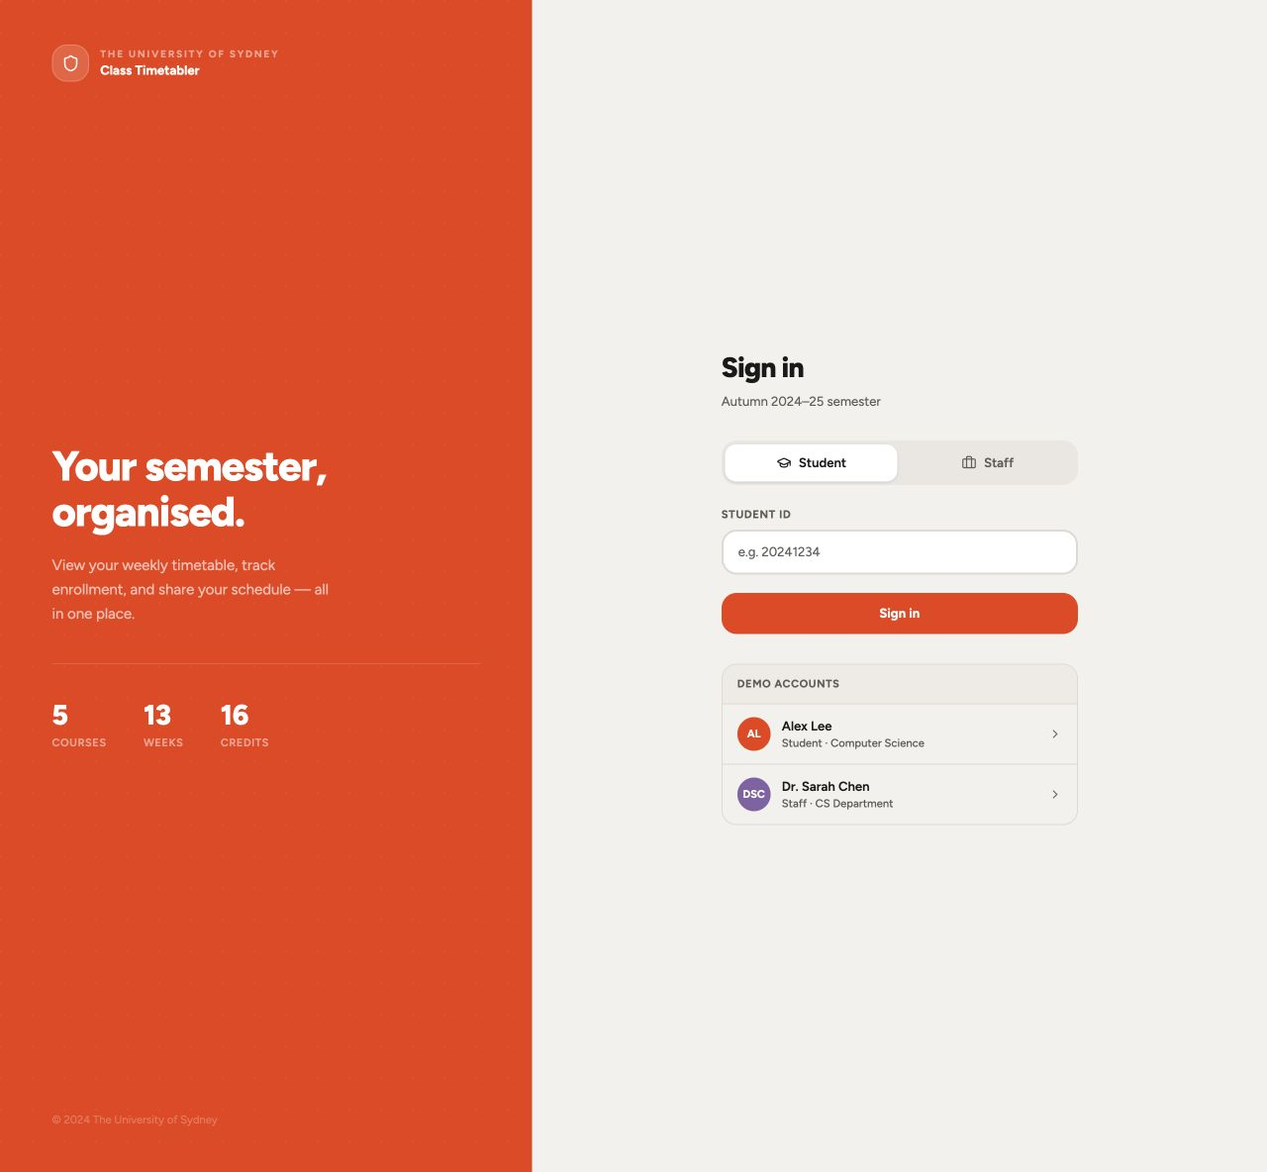
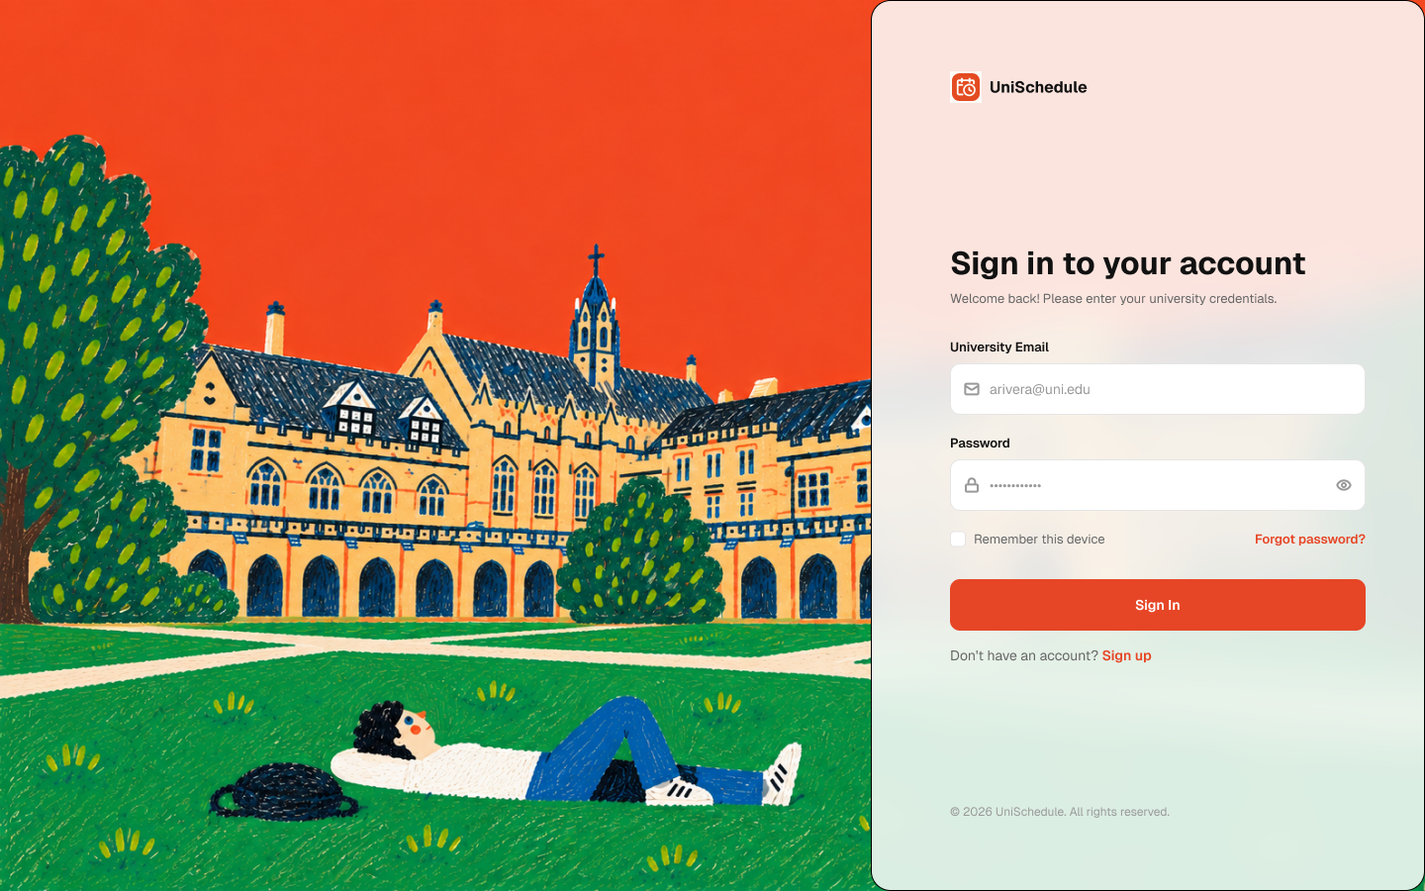
docs: refresh UI prototype from redesigned Figma screens

diff --git a/02_软件设计与架构/05_界面原型.md b/02_软件设计与架构/05_界面原型.md
@@ -1,71 +1,166 @@
 # 界面原型
 
-根据 `Mobile University Timetable App.zip` 整理，按“登录 → 学生端 → 教职员工端”的使用顺序展示。截图保留原型的英文界面，使用示例账户和课程数据。
+本版以 [UniSchedule 新版 Figma 设计](https://www.figma.com/design/F9PdvZ2BAiF2pOJ6lmr6uY/Untitled) 为界面来源，更新日期为 **2026-09-19**。已导出 Page 1 中全部 **21 张顶层界面与状态图**，均为 **1440 × 900** 桌面画板；按登录、学生端、教职员工端整理。每张图片附有对应 Figma 节点链接，便于继续编辑与核对。
 
-本原型用于确认页面布局与交互流程，不代表对应需求已经实现或通过验收。需求编号对应[用户故事与验收标准](../01_需求工程/02_用户故事、验收标准与可追溯性.md)，关联见[可追溯列表](../01_需求工程/03_可追溯列表.md)。
+本版替代此前从 `Mobile University Timetable App.zip` 整理的 8 张截图；旧版可在 Git 历史中查看。截图保留英文界面及示例内容，表示视觉与交互设计，不代表业务已实现或通过验收。
+
+需求编号对应[用户故事与验收标准](../01_需求工程/02_用户故事、验收标准与可追溯性.md)，关联见[可追溯列表](../01_需求工程/03_可追溯列表.md)。本次更新保留新 UI 原貌，与现有规则和接口的差异列在第 4 节，不据此自动变更业务权限或项目范围。
 
 ## 1. 登录
 
-**对应需求：US-01。** 选择学生或教职员工身份，进入各自的界面；演示账户用于快速体验。
+**对应需求：US-01。** 左侧校园插画，右侧大学邮箱及密码表单，包含记住设备、忘记密码和注册入口。本次文件未包含注册、密码重置、登录失败及会话失效的独立画板。
 
-![登录](images/原型/01_登录.png)
+**登录** · [Figma 原图](https://www.figma.com/design/F9PdvZ2BAiF2pOJ6lmr6uY/Untitled?node-id=26-4)
+
+![login-page](images/原型/01_登录.png)
 
 ## 2. 学生端
 
 ### 2.1 个人课程表
 
-**对应需求：US-02。** 按周展示课程安排，通过颜色区分科目，点击课程查看详情。
+**对应需求：US-02。** 左侧导航包含 Timetable、Announcements、Shared Timetables、Compare Timetables 和 Settings。主区域按周展示工作日课程、时间及地点，颜色区分科目；默认状态关闭详情抽屉。
 
-![个人课程表](images/原型/02_个人课程表.png)
+**个人课程表** · [Figma 原图](https://www.figma.com/design/F9PdvZ2BAiF2pOJ6lmr6uY/Untitled?node-id=2-4)
+
+![Timetable — Default (Closed)](images/原型/02_个人课程表.png)
 
 ### 2.2 课程详情与容量
 
-**对应需求：US-02、US-03。** 展示课程类型、教师、时间、地点、教学周及已报名人数与容量。
+**对应需求：US-02、US-03。** 选择课程后打开右侧详情抽屉，展示类型、教师、时间、地点、在线链接、报名人数、容量、剩余名额、候补人数、来源、验证状态及更新时间。底部保留 Course Notes、Edit Class 和 Remove 设计，具体权限与数据归属见第 4 节。
 
-![课程详情与容量](images/原型/03_课程详情.png)
+**课程详情与容量** · [Figma 原图](https://www.figma.com/design/F9PdvZ2BAiF2pOJ6lmr6uY/Untitled?node-id=6-2)
+
+![Timetable - Drawer Open](images/原型/03_课程详情与容量.png)
 
 ### 2.3 查看公告
 
-**对应需求：US-06。** 按课程展示公告，显示发布者、时间和未读提示；点击展开正文。
+**对应需求：US-06。** 列表展示课程、消息、发送者和日期，提供 All / Unread 筛选及新消息数量；详情状态在右侧展开公告正文和背景信息，并包含 Reply / Archive 入口。两个画板使用不同示例公告，不代表同一条数据的前后状态。
 
-![查看公告](images/原型/04_查看公告.png)
+**公告列表** · [Figma 原图](https://www.figma.com/design/F9PdvZ2BAiF2pOJ6lmr6uY/Untitled?node-id=38-8)
+
+![announcements-default](images/原型/04_公告列表.png)
+
+**公告详情** · [Figma 原图](https://www.figma.com/design/F9PdvZ2BAiF2pOJ6lmr6uY/Untitled?node-id=38-128)
+
+![announcements-drawer-open](images/原型/05_公告详情.png)
 
 ### 2.4 分享课程表
 
-**对应需求：US-04。** 展示分享链接、二维码和课程清单，表达只读分享的交互方向。
+**对应需求：US-04；Calendar Feed 涉及 EXT-01。** 六张画板覆盖分享列表、创建表单、分享范围选择、创建成功及复制链接、撤销确认、撤销后状态。可选择 Full Timetable / Availability Only、Person / Calendar Feed，以及 None / 7d / 30d / Custom 有效期。列表区分 Active、Expired、Revoked，已撤销项显示 Delete 入口。
 
-![分享课程表](images/原型/05_分享课程表.png)
+**分享列表** · [Figma 原图](https://www.figma.com/design/F9PdvZ2BAiF2pOJ6lmr6uY/Untitled?node-id=43-823)
+
+![Shared Timetables - List](images/原型/06_分享列表.png)
+
+**创建分享** · [Figma 原图](https://www.figma.com/design/F9PdvZ2BAiF2pOJ6lmr6uY/Untitled?node-id=43-887)
+
+![Shared Timetables — Create Share](images/原型/07_创建分享.png)
+
+**分享范围** · [Figma 原图](https://www.figma.com/design/F9PdvZ2BAiF2pOJ6lmr6uY/Untitled?node-id=43-1123)
+
+![create-share-scope](images/原型/08_分享范围.png)
+
+**分享创建成功** · [Figma 原图](https://www.figma.com/design/F9PdvZ2BAiF2pOJ6lmr6uY/Untitled?node-id=43-1239)
+
+![share-created-copy](images/原型/09_分享创建成功.png)
+
+**撤销分享确认** · [Figma 原图](https://www.figma.com/design/F9PdvZ2BAiF2pOJ6lmr6uY/Untitled?node-id=43-1336)
+
+![revoke-share-confirm](images/原型/10_撤销分享确认.png)
+
+**分享已撤销** · [Figma 原图](https://www.figma.com/design/F9PdvZ2BAiF2pOJ6lmr6uY/Untitled?node-id=43-1435)
+
+![share-revoked-state](images/原型/11_分享已撤销.png)
+
+### 2.5 比较课程表
+
+**对应需求：US-04。** 粘贴分享链接后比较本人和对方的安排。三张画板分别表示未输入时的空状态、有效分享的比较视图、链接无效或不再可用的错误状态。Availability only 示例用 Busy 隐去对方课程详情；画面呈现并排比较，不作为已实现冲突检测的证据。
+
+**比较空状态** · [Figma 原图](https://www.figma.com/design/F9PdvZ2BAiF2pOJ6lmr6uY/Untitled?node-id=53-6)
+
+![compare-empty-state](images/原型/12_比较空状态.png)
+
+**比较课程表** · [Figma 原图](https://www.figma.com/design/F9PdvZ2BAiF2pOJ6lmr6uY/Untitled?node-id=53-50)
+
+![compare-active](images/原型/13_比较课程表.png)
+
+**比较链接失效** · [Figma 原图](https://www.figma.com/design/F9PdvZ2BAiF2pOJ6lmr6uY/Untitled?node-id=53-278)
+
+![compare-invalid-link](images/原型/14_比较链接失效.png)
 
 ## 3. 教职员工端
 
 ### 3.1 课程概览
 
-**对应需求：US-05、US-03。** 按星期查看课程记录及容量，并展示汇总信息和同步入口。
+**对应需求：US-05、US-03。** Staff Workspace 按学期、科目和班级组织课程，展示 Coordinator / Teaching Staff 身份及班级容量、剩余名额、Limited / Full 状态。导航包含 Workspace、Management 和 Audit Log。
 
-![教职员工课程概览](images/原型/06_教职员工课程.png)
+**教职员工工作台** · [Figma 原图](https://www.figma.com/design/F9PdvZ2BAiF2pOJ6lmr6uY/Untitled?node-id=76-550)
+
+![staff-workspace](images/原型/15_教职员工工作台.png)
 
 ### 3.2 公告管理
 
-**对应需求：US-06。** 查看公告列表，区分本人发布的公告，并提供新建入口。
+**对应需求：US-06。** 列表提供 All / Draft / Published 筛选，展示标题、范围、状态、日期及编辑、发布、撤回入口，并提供 Create Announcement 按钮。编辑抽屉包含标题、锁定的 CLASS 范围、正文、草稿状态和 Save Draft / Publish 按钮。本次没有独立的新建公告或撤回确认画板。
 
-![公告管理](images/原型/07_公告管理.png)
+**公告管理** · [Figma 原图](https://www.figma.com/design/F9PdvZ2BAiF2pOJ6lmr6uY/Untitled?node-id=90-5)
 
-### 3.3 新建公告
+![announcements-management](images/原型/20_公告管理.png)
 
-**对应需求：US-06。** 选择课程，填写标题和正文，可设置优先标记。图中内容为演示填写。
+**编辑公告** · [Figma 原图](https://www.figma.com/design/F9PdvZ2BAiF2pOJ6lmr6uY/Untitled?node-id=90-148)
 
-![新建公告](images/原型/08_新建公告.png)
+![announcements-edit-drawer](images/原型/21_编辑公告.png)
+
+### 3.3 班级管理与课程安排编辑
+
+**对应需求：US-05、US-03；可写字段待与现有规则对齐。** 班级页面展示时间、地点、授课方式、验证状态、有效容量、剩余名额、容量覆盖以及额外课程安排。容量覆盖示例包含超出教室座位数的警告。编辑抽屉展示星期、起止时间、地点、授课方式、在线地址、安排状态与验证状态，以及取消和保存操作。
+
+**班级管理** · [Figma 原图](https://www.figma.com/design/F9PdvZ2BAiF2pOJ6lmr6uY/Untitled?node-id=76-671)
+
+![class-management](images/原型/16_班级管理.png)
+
+**编辑课程安排** · [Figma 原图](https://www.figma.com/design/F9PdvZ2BAiF2pOJ6lmr6uY/Untitled?node-id=76-781)
+
+![class-management-drawer](images/原型/17_编辑课程安排.png)
+
+### 3.4 审计日志
+
+**对应需求：US-05、US-06；审计查询权限待确认。** 列表支持操作者、操作、资源及日期范围筛选，展示时间、操作者、角色、操作、资源和摘要。右侧抽屉展示单条记录的操作详情、变更摘要、审计 ID 与实体 ID。列表中的授权变更及系统同步记录属于示例内容，不表示新增角色管理功能已经获批。
+
+**审计日志列表** · [Figma 原图](https://www.figma.com/design/F9PdvZ2BAiF2pOJ6lmr6uY/Untitled?node-id=84-5)
+
+![audit-logs-list](images/原型/18_审计日志列表.png)
+
+**审计日志详情** · [Figma 原图](https://www.figma.com/design/F9PdvZ2BAiF2pOJ6lmr6uY/Untitled?node-id=84-191)
+
+![audit-logs-drawer](images/原型/19_审计日志详情.png)
 
 ## 4. 原型边界与待补充内容
 
-| 需求 | 当前原型与后续工作 |
-| --- | --- |
-| US-01 登录与权限 | 当前使用演示账户；正式身份认证及服务端权限校验待实现。 |
-| US-02 课程表 | 已展示桌面流程；移动端布局、加载失败和无课程状态需补充确认。 |
-| US-03 容量与数据可信度 | 已展示示例容量；数据来源、验证状态及无容量数据提示待补充。 |
-| US-04 分享与比较 | 链接、二维码及按钮为演示；用户同意、分享范围、访问控制和比较视图待补充。 |
-| US-05 信息维护 | 已展示课程概览；批准字段编辑、保存反馈及审计界面待补充。 |
-| US-06 公告 | 新建公告仅更新本地状态；编辑、撤回、按用户群体定向及正式发布待补充。优先标记不用于紧急事件通信。 |
-| US-07 更新同步 | `Live sync` 和容量变化为本地模拟，尚未验证学生端与教职员工端的真实同步。 |
+### 4.1 与当前业务规则和接口的差异
 
-原型使用 Vite + React。正式系统仍以[技术栈与技术选型结论](02_技术栈与技术选型结论.md)中的 Next.js 等选型为准；交互权限以[业务规则与权限矩阵](04_业务规则与权限矩阵.md)为依据。
+以下按新版 UI 实际内容记录，供后续需求评审与实现对齐；现有[业务规则与权限矩阵](04_业务规则与权限矩阵.md)及[接口契约](06_接口契约.md)仍保留其草案状态。
+
+| 设计内容 | 当前契约 / 范围 | 后续需明确 |
+| --- | --- | --- |
+| 学生详情的 Edit Class、Remove、Course Notes | 当前学生无修改官方安排、选课或分班的权限，也无个人笔记接口 | 明确是否仅操作个人显示或笔记，不能解释为修改正式记录 |
+| 教师编辑时间、地点、授课方式、验证状态、容量覆盖及新增安排 | 当前仅允许维护补充 content，未提供上述写入接口 | 确认官方与补充数据边界、字段白名单、验证权限、容量规则，再更新模型与契约 |
+| Person / Calendar Feed 分享、复制链接、无限期分享、按姓名或邮箱搜索 | 当前暂按指定接收人登录访问，要求 expiresAt；不开放任意用户搜索；日历订阅属于 EXT-01 | 明确接收人选择、链接与认证关系、期限、同意记录及订阅撤销规则；UI 链接不代表公开访问已获批准 |
+| Full Timetable / Availability Only 与分享删除 | 当前使用 allowedFields，已有撤销但没有删除接口 | 定义两种分享选项到字段白名单的映射，以及删除与撤销、审计保留的区别 |
+| 公告 CLASS 级范围及已发布公告的 Edit 按钮 | 当前 targets 仅 course / group，且只允许编辑 draft | 确认班级是否新增目标类型，以及已发布公告的编辑规则，避免向整门科目误发班级公告 |
+| 公告未读、回复及归档 | 当前仅规定可见公告查询，无已读、回复或归档接口 | 明确属于当前版本还是后续扩展，并补充相应数据与权限设计 |
+| Audit Log 导航与查询筛选 | 当前有审计写入模型，但没有列表/详情接口，教职员工不默认拥有查看权 | 定义可查询角色、记录范围及敏感字段，不因界面存在而自动授予权限 |
+
+### 4.2 设计覆盖与实现状态
+
+| 需求 | 本次设计覆盖 | 仍需落实 |
+| --- | --- | --- |
+| US-01 | 登录表单 | 认证、角色分流、越权及会话异常处理 |
+| US-02 | 周课表和详情抽屉 | 移动布局、加载、空课表和查询失败状态 |
+| US-03 | 容量、剩余名额、候补、来源及验证时间 | 未知容量、过期/失败、测试来源提示以及各数值的业务定义 |
+| US-04 | 创建、范围、成功、撤销、失效及比较状态 | 明确同意提示、接收人授权、分享字段校验及失效后的客户端清理 |
+| US-05 | 工作台、班级编辑、容量警告及审计列表/详情 | 可写字段确认、保存失败、并发冲突、权限拒绝及实际审计 |
+| US-06 | 学生列表/详情、教师管理/编辑、发布/撤回入口 | 新建、撤回后状态、目标权限及发布/撤回结果反馈 |
+| US-07 | 多角色页面及数据状态展示 | 真实同步、断线恢复和同步失败提示，本次静态截图不验证同步能力 |
+| NFR-02 | 21 张 1440 × 900 桌面画板 | 本次无独立移动端画板；Settings 只有导航入口 |
+
+正式应用技术选型仍以[技术栈与技术选型结论](02_技术栈与技术选型结论.md)为准。本次交付是 Figma 原图导出与文档同步，不包含应用实现。

diff --git a/01_需求工程/03_可追溯列表.md b/01_需求工程/03_可追溯列表.md
@@ -13,13 +13,13 @@
 
 | ID | 客户需求 | 来源 | Figma / 设计 | Issue | 代码 | PR / Commit | 测试 |
 | --- | --- | --- | --- | --- | --- | --- | --- |
-| US-01 | 身份认证、角色及读写权限 | S1 §4.1–4.2 | [界面原型](../02_软件设计与架构/05_界面原型.md#1-登录)（部分覆盖）；[接口契约](../02_软件设计与架构/06_接口契约.md)（草案） | 待补充 | 待补充 | 待补充 | 待补充 |
-| US-02 | 个人课程表及时间、地点、类型、科目 | S1 §4.1 | [界面原型](../02_软件设计与架构/05_界面原型.md#21-个人课程表)（部分覆盖）；[接口契约](../02_软件设计与架构/06_接口契约.md)（草案） | 待补充 | 待补充 | 待补充 | 待补充 |
-| US-03 | 有合适数据时显示容量或名额；区分已验证数据与补充信息 | S1 §2、§4.1；S4 §10 | [界面原型](../02_软件设计与架构/05_界面原型.md#22-课程详情与容量)（部分覆盖）；[接口契约](../02_软件设计与架构/06_接口契约.md)（草案） | 待补充 | 待补充 | 待补充 | 待补充 |
-| US-04 | 经学生同意的受控分享与课程表比较 | S1 §4.1；S2 §7.1 | [界面原型](../02_软件设计与架构/05_界面原型.md#24-分享课程表)（部分覆盖）；[接口契约](../02_软件设计与架构/06_接口契约.md)（草案） | 待补充 | 待补充 | 待补充 | 待补充 |
-| US-05 | 教职员工 Dashboard、批准字段维护及基本修改审计 | S1 §2、§4.2 | [界面原型](../02_软件设计与架构/05_界面原型.md#31-课程概览)（部分覆盖）；[接口契约](../02_软件设计与架构/06_接口契约.md)（草案） | 待补充 | 待补充 | 待补充 | 待补充 |
-| US-06 | 公告创建、编辑、发布、撤回及按课程或群体定向展示 | S1 §4.1–4.2 | [界面原型](../02_软件设计与架构/05_界面原型.md#32-公告管理)（部分覆盖）；[接口契约](../02_软件设计与架构/06_接口契约.md)（草案） | 待补充 | 待补充 | 待补充 | 待补充 |
-| US-07 | 学生端与教职员工端同步；在有明确价值时采用实时或近实时方式 | S1 §2、§4.3；S2 §7.1–7.2 | [界面原型](../02_软件设计与架构/05_界面原型.md#4-原型边界与待补充内容)（部分覆盖）；[接口契约](../02_软件设计与架构/06_接口契约.md)（草案） | 待补充 | 待补充 | 待补充 | 待补充 |
+| US-01 | 身份认证、角色及读写权限 | S1 §4.1–4.2 | [界面原型](../02_软件设计与架构/05_界面原型.md#1-登录)（新版 Figma，设计覆盖见原型说明）；[接口契约](../02_软件设计与架构/06_接口契约.md)（草案） | 待补充 | 待补充 | 待补充 | 待补充 |
+| US-02 | 个人课程表及时间、地点、类型、科目 | S1 §4.1 | [界面原型](../02_软件设计与架构/05_界面原型.md#21-个人课程表)（新版 Figma，设计覆盖见原型说明）；[接口契约](../02_软件设计与架构/06_接口契约.md)（草案） | 待补充 | 待补充 | 待补充 | 待补充 |
+| US-03 | 有合适数据时显示容量或名额；区分已验证数据与补充信息 | S1 §2、§4.1；S4 §10 | [界面原型](../02_软件设计与架构/05_界面原型.md#22-课程详情与容量)（新版 Figma，设计覆盖见原型说明）；[接口契约](../02_软件设计与架构/06_接口契约.md)（草案） | 待补充 | 待补充 | 待补充 | 待补充 |
+| US-04 | 经学生同意的受控分享与课程表比较 | S1 §4.1；S2 §7.1 | [分享与撤销](../02_软件设计与架构/05_界面原型.md#24-分享课程表)、[课程表比较](../02_软件设计与架构/05_界面原型.md#25-比较课程表)（新版 Figma）；[接口契约](../02_软件设计与架构/06_接口契约.md)（草案） | 待补充 | 待补充 | 待补充 | 待补充 |
+| US-05 | 教职员工 Dashboard、批准字段维护及基本修改审计 | S1 §2、§4.2 | [课程概览](../02_软件设计与架构/05_界面原型.md#31-课程概览)、[班级管理](../02_软件设计与架构/05_界面原型.md#33-班级管理与课程安排编辑)、[审计日志](../02_软件设计与架构/05_界面原型.md#34-审计日志)（可写范围及审计权限待确认）；[接口契约](../02_软件设计与架构/06_接口契约.md)（草案） | 待补充 | 待补充 | 待补充 | 待补充 |
+| US-06 | 公告创建、编辑、发布、撤回及按课程或群体定向展示 | S1 §4.1–4.2 | [界面原型](../02_软件设计与架构/05_界面原型.md#32-公告管理)（新版 Figma，设计覆盖见原型说明）；[接口契约](../02_软件设计与架构/06_接口契约.md)（草案） | 待补充 | 待补充 | 待补充 | 待补充 |
+| US-07 | 学生端与教职员工端同步；在有明确价值时采用实时或近实时方式 | S1 §2、§4.3；S2 §7.1–7.2 | [原型边界](../02_软件设计与架构/05_界面原型.md#4-原型边界与待补充内容)（静态设计，不验证同步）；[接口契约](../02_软件设计与架构/06_接口契约.md)（草案） | 待补充 | 待补充 | 待补充 | 待补充 |
 | FR-01 | 接入至少一种批准的数据源，可使用数据集、Mock API 或测试数据 | S1 §4.3；S4 §10 | [接口契约](../02_软件设计与架构/06_接口契约.md)（草案） | 待补充 | 待补充 | 待补充 | 待补充 |
 
 ## 质量、技术与交付
@@ -38,7 +38,7 @@
 | NFR-08 | 可维护架构；用户、课程、课程表、容量、公告和权限数据模型 | S1 §4.3；S2 §7.2–7.3 | 待补充 | 待补充 | 待补充 | 待补充 |
 | NFR-09 | 记录配置、密钥管理、监控、恢复、维护及回滚要求 | S2 §7.3；S4 §10 | 待补充 | 待补充 | 待补充 | 待补充 |
 | NFR-10 | 关键流程自动化测试，以及功能、可用性、性能、无障碍和安全评估 | S1 §4.3；S2 §8 测试与评估 | 待补充 | 待补充 | 待补充 | 待补充 |
-| DEL-01 | 需求、流程、假设、约束及优先级范围；学生与教职员工原型 | S2 §8 需求与项目范围、用户体验设计 | 待补充 | 待补充 | 待补充 | 待补充 |
+| DEL-01 | 需求、流程、假设、约束及优先级范围；学生与教职员工原型 | S2 §8 需求与项目范围、用户体验设计 | [新版界面原型：21 张画板](../02_软件设计与架构/05_界面原型.md)（部分交付） | 待补充 | 待补充 | 待补充 |
 | DEL-02 | 评估建议技术及替代方案，记录权衡、选择依据、被拒方案和备用方案 | S2 §5、§8 架构与技术评估 | 待补充 | 待补充 | 待补充 | 待补充 |
 | DEL-03 | 可部署试点、源码、开发者与用户文档、已知问题、后续 Backlog 和生产就绪差距 | S2 §7.3、§8；S4 §11 | 待补充 | 待补充 | 待补充 | 待补充 |
 | DEL-04 | 13周阶段计划：探索、设计、开发、同步部署、测试、最终 Demo 与移交 | S3 §9 | 待补充 | 待补充 | 待补充 | 待补充 |
@@ -50,7 +50,7 @@
 
 | ID | 客户内容 | 来源 | 处理方式 |
 | --- | --- | --- | --- |
-| EXT-01 | 日历导出或订阅 | S1 §4.4 | 扩展，未纳入核心承诺 |
+| EXT-01 | 日历导出或订阅 | S1 §4.4 | 新版[分享原型](../02_软件设计与架构/05_界面原型.md#24-分享课程表)出现 Calendar Feed；仍属扩展，未纳入核心承诺 |
 | EXT-02 | 时间冲突检测 | S1 §4.4 | 扩展，区别于核心课程表比较 |
 | EXT-03 | 通知偏好 | S1 §4.4 | 扩展，未纳入核心承诺 |
 | EXT-04 | 教职员工分析 | S1 §4.4 | 扩展，未纳入核心承诺 |

diff --git a/01_需求工程/04_需求变更记录.md b/01_需求工程/04_需求变更记录.md
@@ -6,5 +6,6 @@
 
 | 变更 ID | 日期 | 关联需求 ID | 变更前 → 变更后 | 变更原因 | 影响的设计 / 实现 / 测试 | 确认人 / 状态 |
 | --- | --- | --- | --- | --- | --- | --- |
+| CH-001 | 2026-09-19 | US-01～US-07、DEL-01、EXT-01 | 旧版 8 张截图 → 新版 Figma 的 21 张界面与状态图；新增比较、撤销、班级管理和审计展示 | 项目维护者重构全部 UI，要求同步仓库 | 更新[界面原型](../02_软件设计与架构/05_界面原型.md)、截图及[可追溯列表](03_可追溯列表.md)；可写字段、分享方式、公告范围等差异见原型第 4 节；不将设计视为已实现或已测试 | UI 同步已按项目维护者要求执行；涉及业务范围和权限的调整待客户确认 |
 
 每次需求变更新增一行，变更 ID 从 CH-001 顺序编号。根据 [可追溯列表](03_可追溯列表.md) 检查影响范围，记录确认结果，并同步更新相关成果。尚未确认的变更标为“待确认”。
